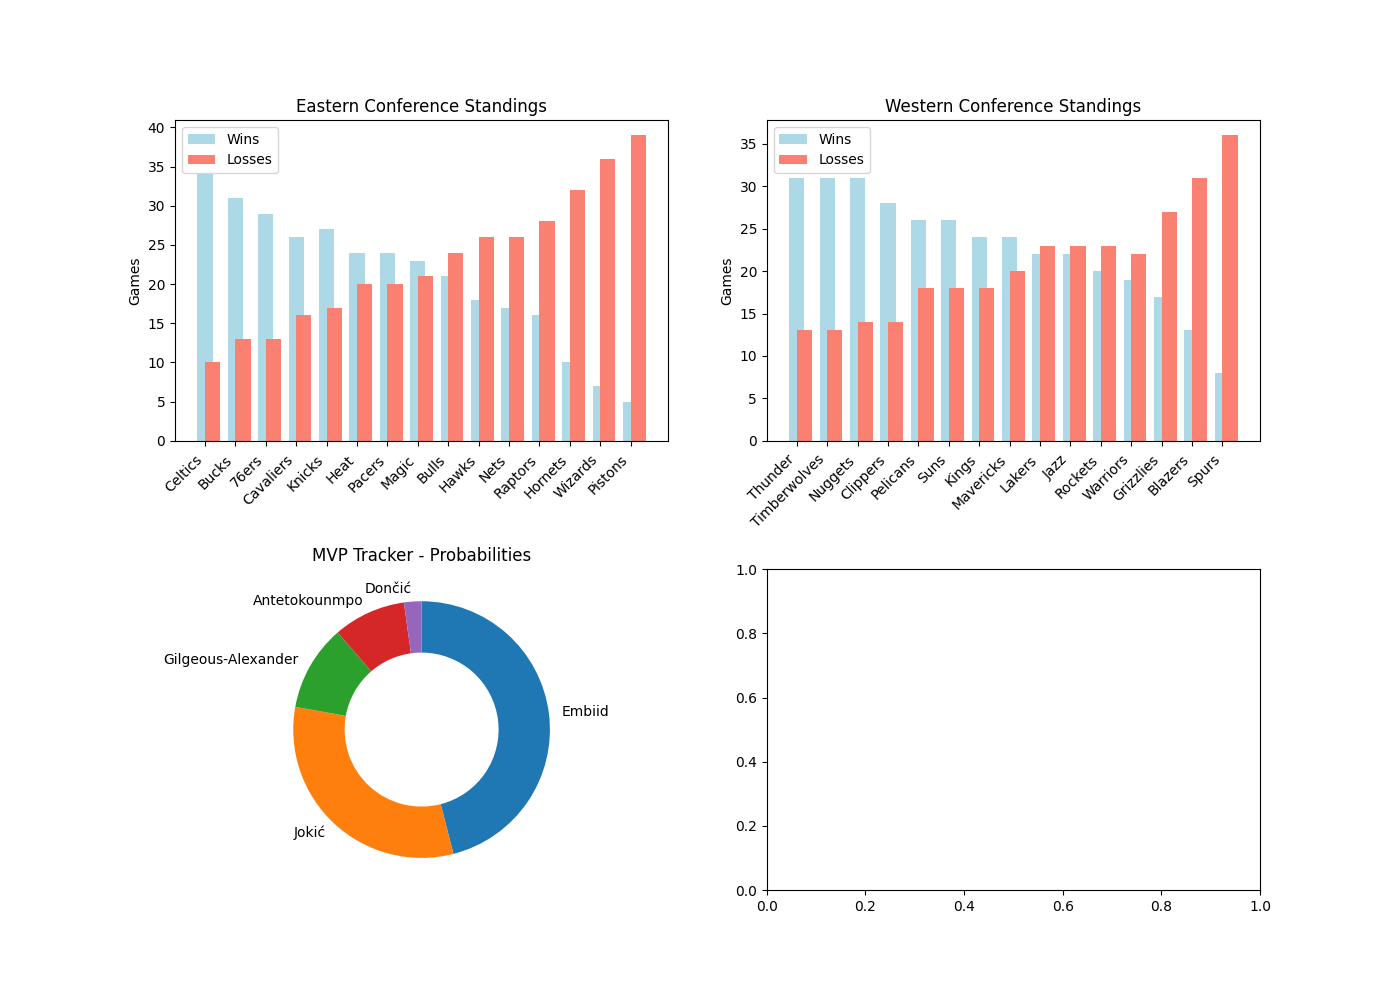
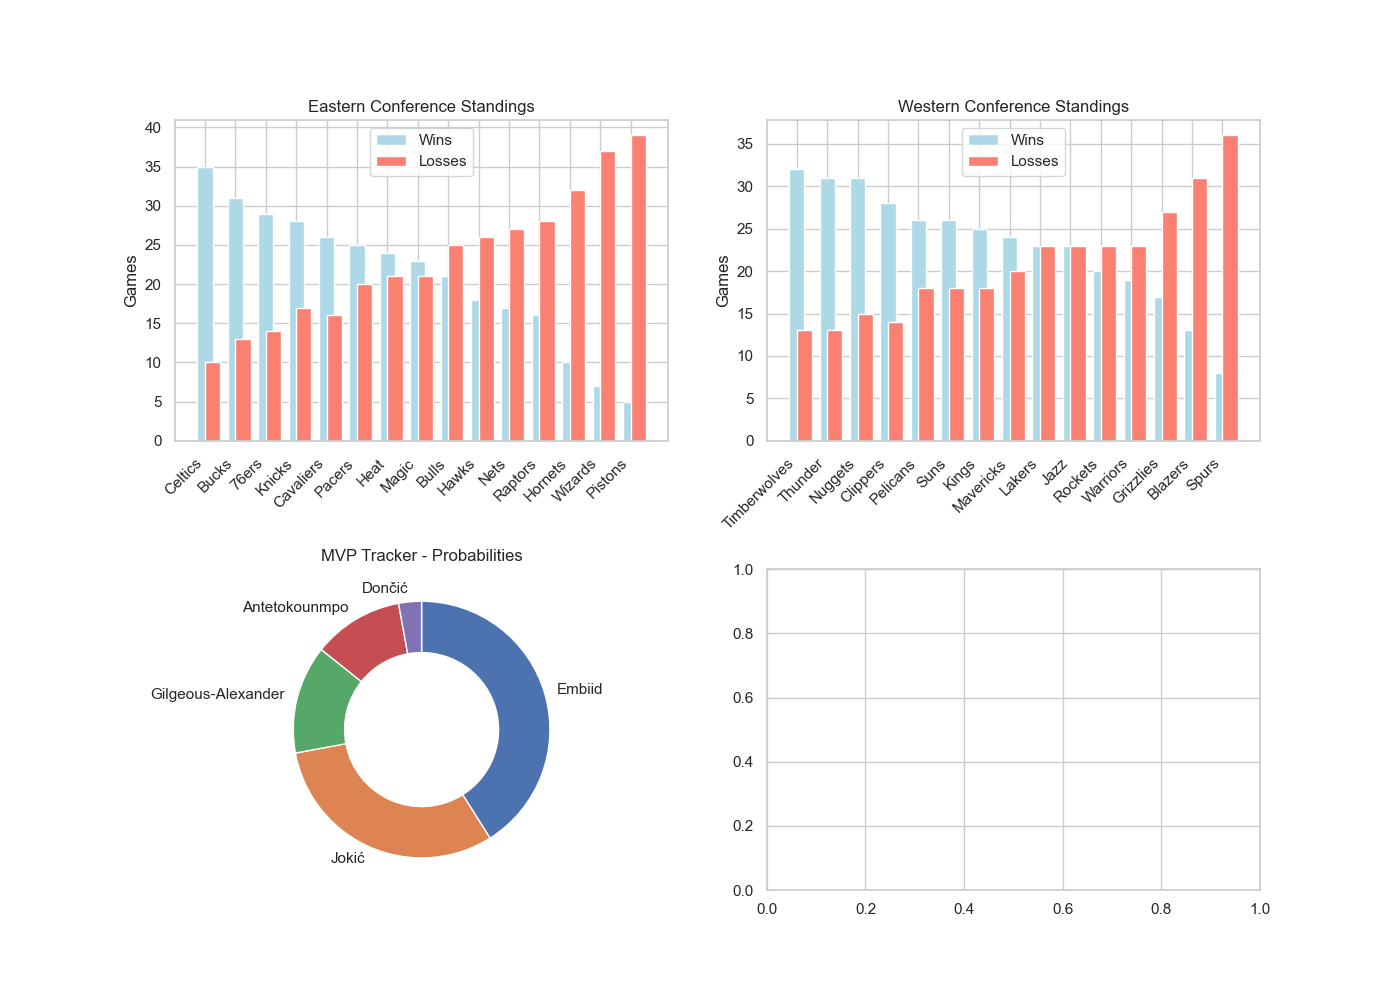
Use seaborn for better data visualization

diff --git a/main.py b/main.py
@@ -1,5 +1,6 @@
 import pandas as pd
 import requests
+import seaborn as sns
 from bs4 import BeautifulSoup
 from matplotlib import pyplot as plt
 
@@ -46,6 +47,7 @@ def plot_teams(teams, conference_name, ax):
     df = pd.DataFrame(data)
     bar_width = 0.5
 
+    sns.set(style='white')
     ax.bar(range(len(df['Team'])), df['Wins'], color='lightblue', label='Wins', width=bar_width, align='center')
     ax.bar(range(len(df['Team'])), df['Losses'], color='salmon', label='Losses', width=bar_width, align='edge')
     # ax.bar(df['Team'], df['Wins'], color='lightblue', label='Wins', width=bar_width)
@@ -92,6 +94,7 @@ def plot_mvp_probabilities(mvp_data, ax):
     labels = [data['Player'].split()[-1] for data in top_5_mvp_data]
     probabilities = [data['MVP probability'] for data in top_5_mvp_data]
 
+    ax.axis('equal')
     ax.pie(x=probabilities, labels=labels, startangle=90, counterclock=False,
            wedgeprops=dict(width=0.4))
     ax.set_title('MVP Tracker - Probabilities')
@@ -129,6 +132,7 @@ def main():
         mvp_data = mvp_tracker(url_mvp_tracker)
         print('-------------------------------------------------------')
 
+        sns.set(style='whitegrid')
         fig, axes = plt.subplots(2, 2, figsize=(14, 10))
         plt.subplots_adjust(hspace=0.4)
 
